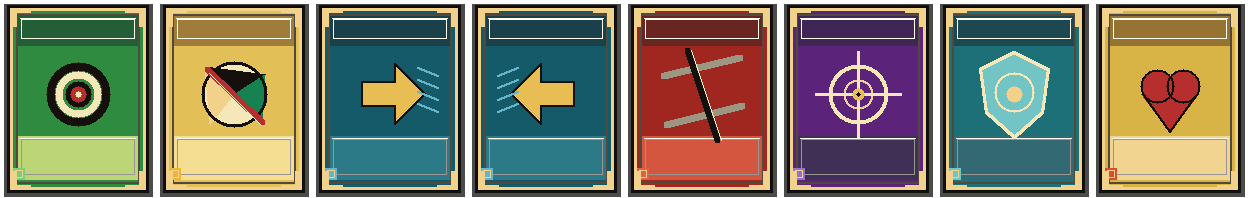
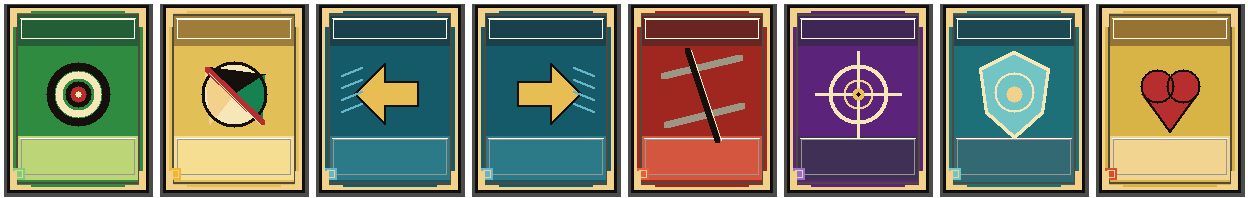
feat: arrows

diff --git a/src/game/rules/game.test.ts b/src/game/rules/game.test.ts
@@ -1,5 +1,5 @@
 import { describe, expect, it } from "vitest";
-import { cardKind } from "./cards";
+import { cardKind, createStarterDeck } from "./cards";
 import {
   cpuTakeTurn,
   createGame,
@@ -11,6 +11,7 @@ import {
   playTechnique,
   resolveDart
 } from "./game";
+import { shuffle } from "./random";
 import { doubleOf, driftNumber, targetScore, targetForScore } from "./scoring";
 import type { CardName, GameState, PlayerId, Target } from "./types";
 
@@ -98,8 +99,51 @@ describe("game setup", () => {
     expect(gameA.players.player.hand.map((item) => item.id)).not.toEqual(
       gameC.players.player.hand.map((item) => item.id)
     );
+    expect(gameA.players.player.hand.map((item) => item.id)).not.toEqual(
+      createStarterDeck("player").slice(0, 5).map((item) => item.id)
+    );
     expect(gameA.players.player.score).toBe(301);
     expect(gameA.players.player.hand).toHaveLength(5);
+  });
+
+  it("shuffles the discard pile into a new draw deck when the deck is exhausted", () => {
+    const recycled = ([
+      "Clean Hit",
+      "Fat Segment",
+      "Wire",
+      "Focus",
+      "Safe Setup",
+      "Drift Right"
+    ] satisfies CardName[]).map((name, index) => card(name, `recycle-${index}`));
+    const base = createGame(7);
+    const stateSeed = base.seed;
+    let state: GameState = {
+      ...base,
+      players: {
+        ...base.players,
+        player: {
+          ...base.players.player,
+          hand: [],
+          deck: [],
+          discard: recycled,
+          played: [],
+          dartsThrown: 0
+        }
+      }
+    };
+
+    state = endVisit(state);
+
+    expect(state.players.player.hand.map((item) => item.id)).toEqual(
+      shuffle(recycled, stateSeed).slice(0, 5).map((item) => item.id)
+    );
+    expect(state.players.player.hand.map((item) => item.id)).not.toEqual(
+      recycled.slice(0, 5).map((item) => item.id)
+    );
+    expect(state.players.player.deck.map((item) => item.id)).toEqual(
+      shuffle(recycled, stateSeed).slice(5).map((item) => item.id)
+    );
+    expect(state.seed).toBe(stateSeed + 1);
   });
 
   it("keeps a longer bounded action log for UI scrolling", () => {

diff --git a/src/game/rules/game.ts b/src/game/rules/game.ts
@@ -43,13 +43,16 @@ function cloneState(state: GameState): GameState {
 
 function drawToHand(player: PlayerState, seed: number): { player: PlayerState; seed: number } {
   let nextSeed = seed;
-  const next = clonePlayer(player);
+  let next = clonePlayer(player);
   while (next.hand.length < handSize) {
     if (next.deck.length === 0) {
       if (next.discard.length === 0) break;
+      next = {
+        ...next,
+        deck: shuffle(next.discard, nextSeed),
+        discard: []
+      };
       nextSeed += 1;
-      next.deck = shuffle(next.discard, nextSeed);
-      next.discard = [];
     }
     const drawn = next.deck.shift();
     if (!drawn) break;
@@ -59,15 +62,14 @@ function drawToHand(player: PlayerState, seed: number): { player: PlayerState; s
 }
 
 function createPlayer(id: PlayerId, label: string, seed: number): { player: PlayerState; seed: number } {
-  const shuffled = shuffle(createStarterDeck(id), seed);
   const base: PlayerState = {
     id,
     label,
     score: 301,
     startOfVisitScore: 301,
-    deck: shuffled,
+    deck: [],
     hand: [],
-    discard: [],
+    discard: createStarterDeck(id),
     played: [],
     dartsThrown: 0
   };
@@ -85,7 +87,7 @@ export function createGame(seed = 1): GameState {
     activePlayerId: "player",
     phase: "declare-target",
     log: ["New leg: first to 301, double or bull to finish."],
-    seed,
+    seed: Math.max(player.seed, cpu.seed),
     lastDart: undefined
   };
 }

diff --git a/src/game/scenes/PubGameScene.ts b/src/game/scenes/PubGameScene.ts
@@ -146,12 +146,16 @@ export class PubGameScene extends Phaser.Scene {
   }
 
   create() {
-    this.state = createGame(86);
+    this.state = createGame(this.freshLegSeed());
     this.chooseCpuPortrait();
     this.createPubBackdrop();
     this.createDartboard();
     this.createUiShell();
     this.refresh();
+  }
+
+  private freshLegSeed(): number {
+    return Math.floor((Date.now() % 0xffffffff) + Math.random() * 0xffffffff) >>> 0;
   }
 
   private createPubBackdrop() {
@@ -1191,7 +1195,7 @@ export class PubGameScene extends Phaser.Scene {
     this.countedWinner = undefined;
     this.logScrollOffset = 0;
     this.hitFlash.clear();
-    this.state = createGame(Math.floor(Date.now() % 100000));
+    this.state = createGame(this.freshLegSeed());
     this.chooseCpuPortrait();
     this.refresh();
   }